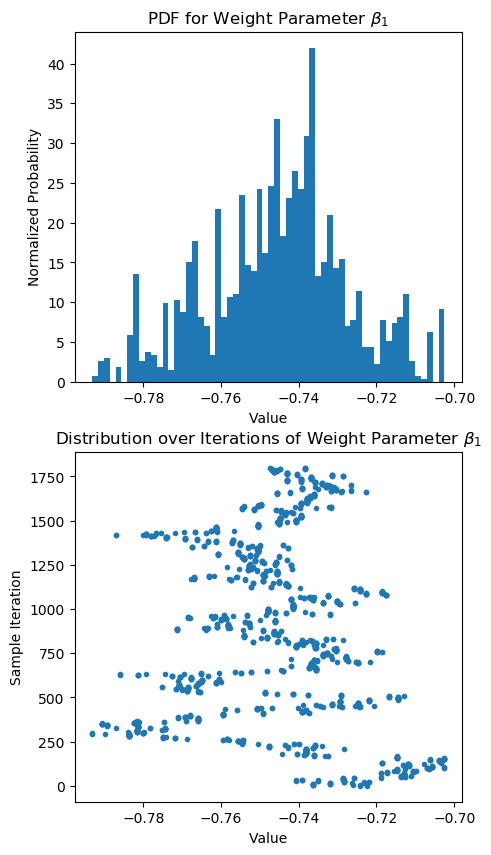
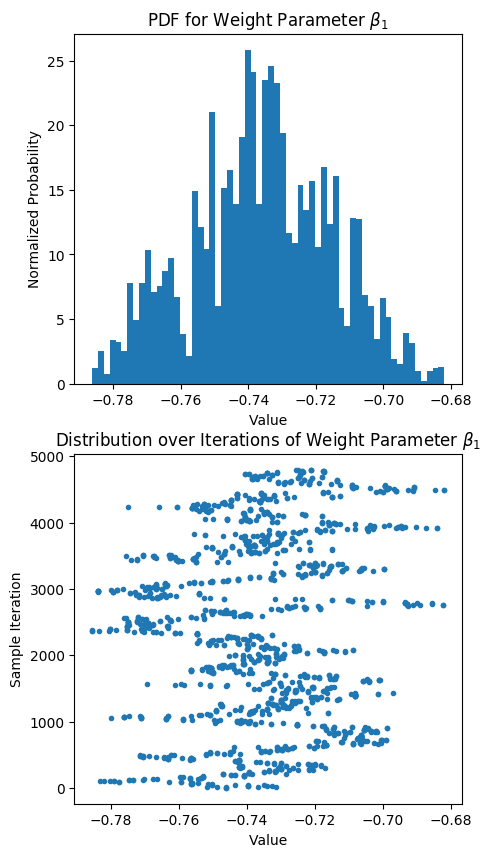
new plots

diff --git a/mh_base.py b/mh_base.py
@@ -45,7 +45,7 @@ class MCMCSampler(object):
 class MHSampler(MCMCSampler):
 	def sample(self):
 		for i in range(self.iterations):
-			if i % 1000 == 0:
+			if i % 500 == 0:
 				print("iteration {}".format(i))
 			candidate_state = self.get_transition_sample(self.state)
 			acceptance = self.calculate_acceptance_ratio(candidate_state)
@@ -87,11 +87,11 @@ class ConsensusMHSampler(MCMCSampler):
 		self.saved_states = self.reduce_sample(map_results)
 
 	def map_sample(self, index):
-		np.random.seed()
+		np.random.seed(0)
 		cur_state = self.start_state
 		sample_results = [cur_state]
 		for i in range(self.iterations):
-			if i % 1000 == 0:
+			if i % 500 == 0:
 				print("iteration {}".format(i))
 			candidate_state = self.get_transition_sample(cur_state)
 			acceptance = self.calculate_acceptance_ratio(candidate_state, index)
@@ -137,6 +137,7 @@ def get_sample_variance(data):
 
 # using main MH on the bank data
 def main(dataset, sampling_method):
+	np.random.seed(0)
 	if dataset == "bank_small":
 		# N=100000 takes 1-2 min
 		proposal_variance, burnin, N = .0015, 10000, 100000
@@ -149,8 +150,8 @@ def main(dataset, sampling_method):
 		x0 = [-2.45, .02, -.125, -.35, -.14, -.75, .35, .1, .1, -.45]
 	elif dataset == "freddie_mac":
 		# N=2000 takes about 7 min, N=100000 takes ~6 hours
-		shards, burnin, N = 4, 200, 2000
-		proposal_variance = 4e-5 if sampling_method == "MH" else 8e-4
+		shards, burnin, N = 4, 200, 5000
+		proposal_variance = 4e-5 if sampling_method == "MH" else 8e-5
 		feature_array, output_vector = process_freddie.create_arrays()
 		x0 = [-6.25, -.72, -.23, .56, .04, .11, .05, -.06, .01, .30]
 	else:
